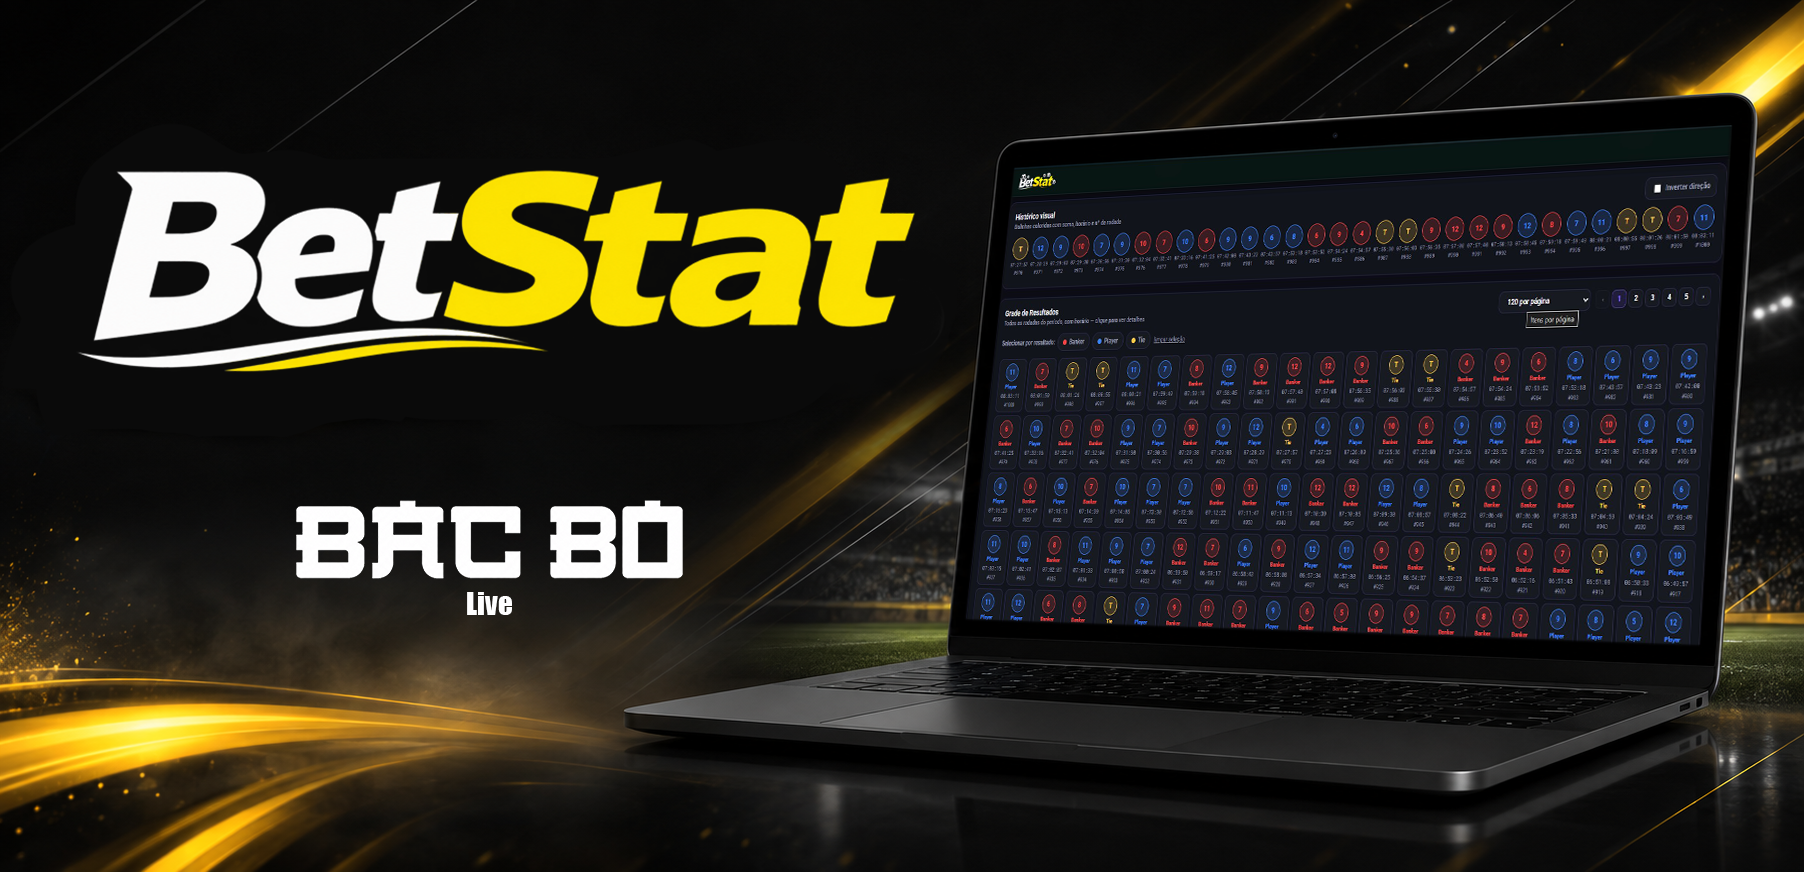
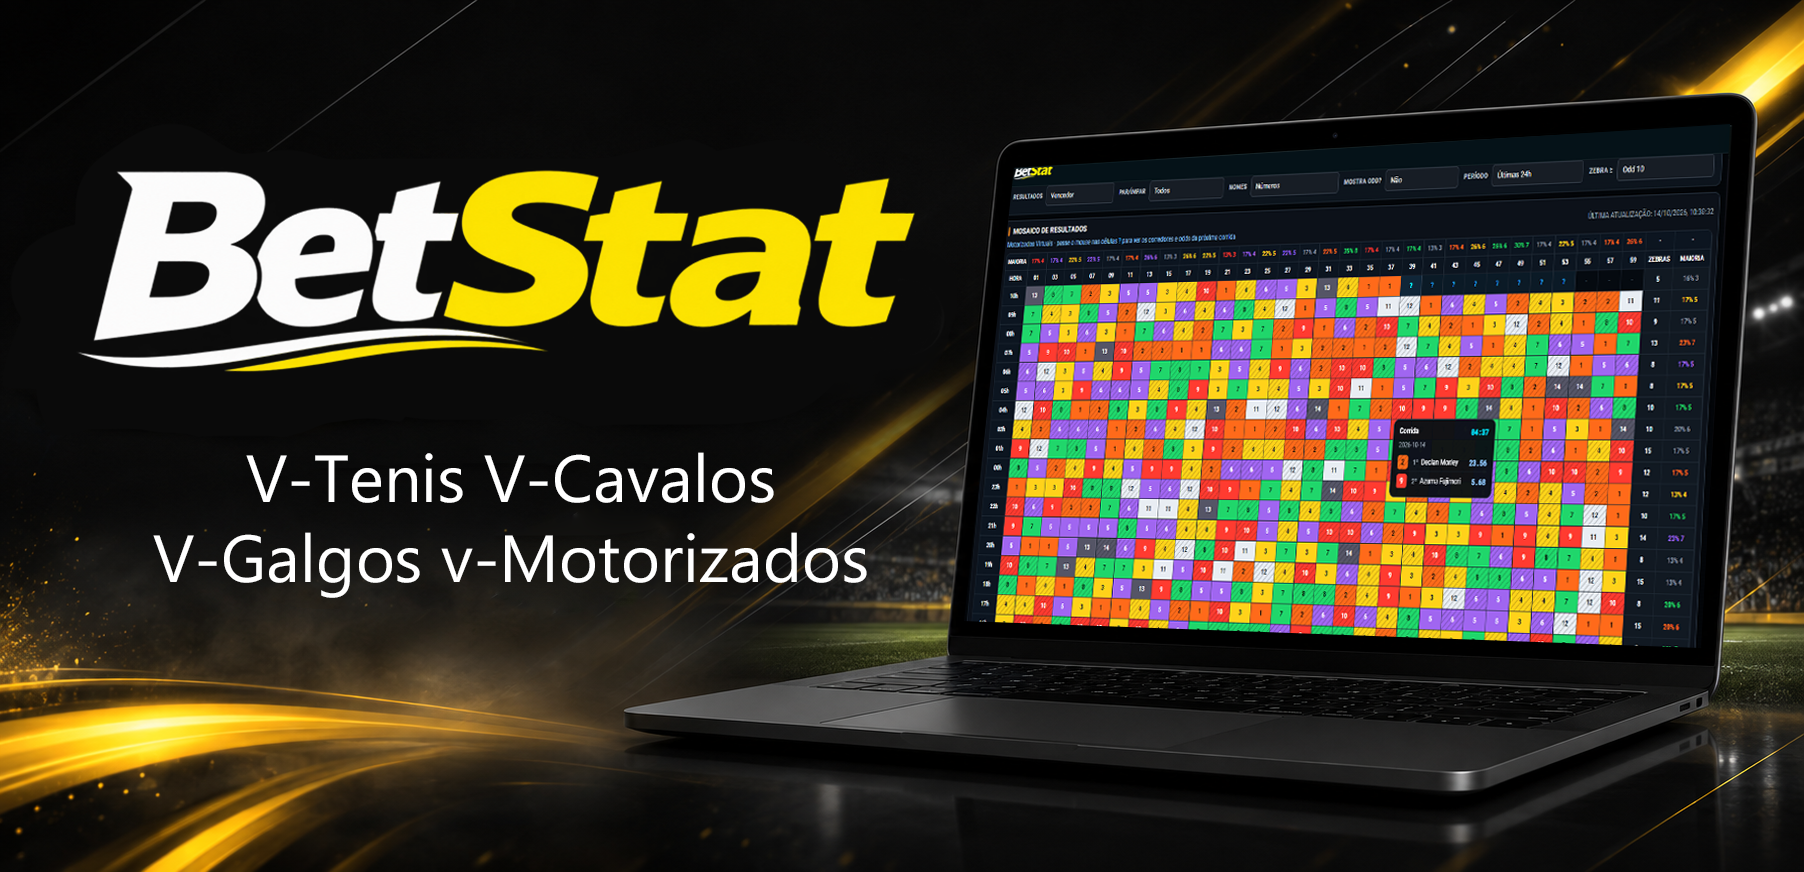
asjjhjd

Changed region(s): [[0.5277, 0.1858, 0.9623, 0.7431], [0.0621, 0.5264, 0.4967, 0.7122], [0.6829, 0.1858, 0.714, 0.2167]]

diff --git a/payment.html b/payment.html
@@ -5,7 +5,7 @@
 <meta name="viewport" content="width=device-width, initial-scale=1.0">
 <title>BetStat | Assinar</title>
 <link rel="icon" href="img/favicon.ico" type="image/x-icon">
-<meta name="description" content="BetStat - plataforma de análise para futebol virtual Betgreen, Vavada, BetMGM, Bet365, Betano, Kiron, Estrelabet, Betsson e 1Win.">
+<meta name="description" content="BetStat - plataforma de análise para futebol virtual BetGreen, Vavada, 1Win e Strivobet, além de BacBo, Lotofácil, V-Tênis, V-Cavalos, V-Galgos e V-Motorizados.">
 <meta name="robots" content="index, follow">
 <link rel="preconnect" href="https://fonts.googleapis.com">
 <link rel="preconnect" href="https://fonts.gstatic.com" crossorigin>
@@ -53,7 +53,7 @@ nav{position:relative;z-index:99;display:flex;align-items:center;justify-content
 /* ── CASAS ── */
 .casas{display:flex;align-items:center;justify-content:center;border-top:1px solid var(--line);border-bottom:1px solid var(--line);background:var(--p1);flex-wrap:wrap;padding:8px 0;}
 .casas-logos{display:flex;align-items:center;flex-wrap:wrap;justify-content:center;}
-.casas-logos img{height:40px;padding:14px 26px;opacity:.85;}
+.casas-logos span{padding:14px 26px;font-size:.95rem;font-weight:700;color:var(--ink2);letter-spacing:.01em;white-space:nowrap;}
 
 /* ── WRAP ── */
 .wrap{max-width:1100px;margin:0 auto;padding:0 48px;}
@@ -174,7 +174,7 @@ footer{padding:26px 48px;border-top:1px solid var(--line);text-align:center;font
 <section class="hero">
   <div class="hero-tag"><span></span>Plataforma de Análise</div>
   <h1 class="hero-h1">Informação e análise para melhores <span class="hl">decisões</span></h1>
-  <p class="hero-p">Mais de 80 ferramentas de análise para Betgreen, Vavada, BetMGM, Bet365, Betano, Kiron, Estrelabet, Betsson e 1Win, cobrindo futebol virtual, BacBo Live e Speedway. Estatísticas em tempo real e sinais automáticos via Telegram.</p>
+  <p class="hero-p">Mais de 80 ferramentas de análise para BetGreen, Vavada, 1Win e Strivobet, cobrindo futebol virtual, BacBo, Lotofácil, V-Tênis, V-Cavalos, V-Galgos e V-Motorizados. Estatísticas em tempo real e sinais automáticos via Telegram.</p>
   <div class="hero-actions">
     <a href="#pagamento" class="btn-primary">Assinar agora — R$ 32/mês</a>
     <a href="https://t.me/sitebetstat" target="_blank" class="btn-ghost">Entrar na comunidade</a>
@@ -189,17 +189,16 @@ footer{padding:26px 48px;border-top:1px solid var(--line);text-align:center;font
 <!-- CASAS -->
 <div class="casas">
   <div class="casas-logos">
-    <img src="img/betgreen.png" alt="Betgreen">
-    <img src="img/vavada.png" alt="Vavada">
-    <img src="img/mgm.png" alt="BetMGM">
-    <img src="img/bets.png" alt="Bet365">
-    <img src="img/betano2.png" alt="Betano">
-    <img src="img/betsson.png" alt="Betsson">
-    <img src="img/kiron.png" alt="Kiron">
-    <img src="img/estrela.png" alt="Estrelabet">
-    <img src="img/1win.png" alt="1Win">
-    <img src="img/bacbo.png" alt="BacBo Live">
-    <img src="img/speedway.png" alt="Speedway Betano">
+    <span>BetGreen</span>
+    <span>Vavada</span>
+    <span>1Win</span>
+    <span>Strivobet</span>
+    <span>BacBo</span>
+    <span>Lotofácil</span>
+    <span>V-Tênis</span>
+    <span>V-Cavalos</span>
+    <span>V-Galgos</span>
+    <span>V-Motorizados</span>
   </div>
 </div>
 
@@ -240,17 +239,16 @@ footer{padding:26px 48px;border-top:1px solid var(--line);text-align:center;font
     <div class="offer-grid">
       <div class="offer-col">
         <div class="offer-head">Plataformas</div>
-        <div class="offer-item"><span class="offer-chk">✓</span>4 melhores ligas Betgreen Futebol Virtual</div>
-        <div class="offer-item"><span class="offer-chk">✓</span>7 melhores ligas Vavada Futebol Virtual</div>
-        <div class="offer-item"><span class="offer-chk">✓</span>3 melhores ligas BetMGM Futebol Virtual</div>
-        <div class="offer-item"><span class="offer-chk">✓</span>4 melhores ligas Bet365 Futebol Virtual</div>
-        <div class="offer-item"><span class="offer-chk">✓</span>7 melhores ligas Betano Futebol Virtual</div>
-        <div class="offer-item"><span class="offer-chk">✓</span>5 melhores ligas Kiron Futebol Virtual</div>
-        <div class="offer-item"><span class="offer-chk">✓</span>4 melhores ligas Estrelabet Futebol Virtual</div>
-        <div class="offer-item"><span class="offer-chk">✓</span>3 melhores ligas Betsson Futebol Virtual</div>
-        <div class="offer-item"><span class="offer-chk">✓</span>3 melhores ligas 1Win Futebol Virtual</div>
-        <div class="offer-item"><span class="offer-chk">✓</span>BacBo Live</div>
-        <div class="offer-item"><span class="offer-chk">✓</span>Speedway Betano</div>
+        <div class="offer-item"><span class="offer-chk">✓</span>4 ligas BetGreen Futebol Virtual</div>
+        <div class="offer-item"><span class="offer-chk">✓</span>7 ligas Vavada Futebol Virtual</div>
+        <div class="offer-item"><span class="offer-chk">✓</span>3 ligas 1Win Futebol Virtual</div>
+        <div class="offer-item"><span class="offer-chk">✓</span>8 ligas Strivobet Futebol Virtual</div>
+        <div class="offer-item"><span class="offer-chk">✓</span>BacBo</div>
+        <div class="offer-item"><span class="offer-chk">✓</span>Lotofácil</div>
+        <div class="offer-item"><span class="offer-chk">✓</span>V-Tênis</div>
+        <div class="offer-item"><span class="offer-chk">✓</span>V-Cavalos</div>
+        <div class="offer-item"><span class="offer-chk">✓</span>V-Galgos</div>
+        <div class="offer-item"><span class="offer-chk">✓</span>V-Motorizados</div>
       </div>
       <div class="offer-col">
         <div class="offer-head">Ferramentas — mais de 80</div>
